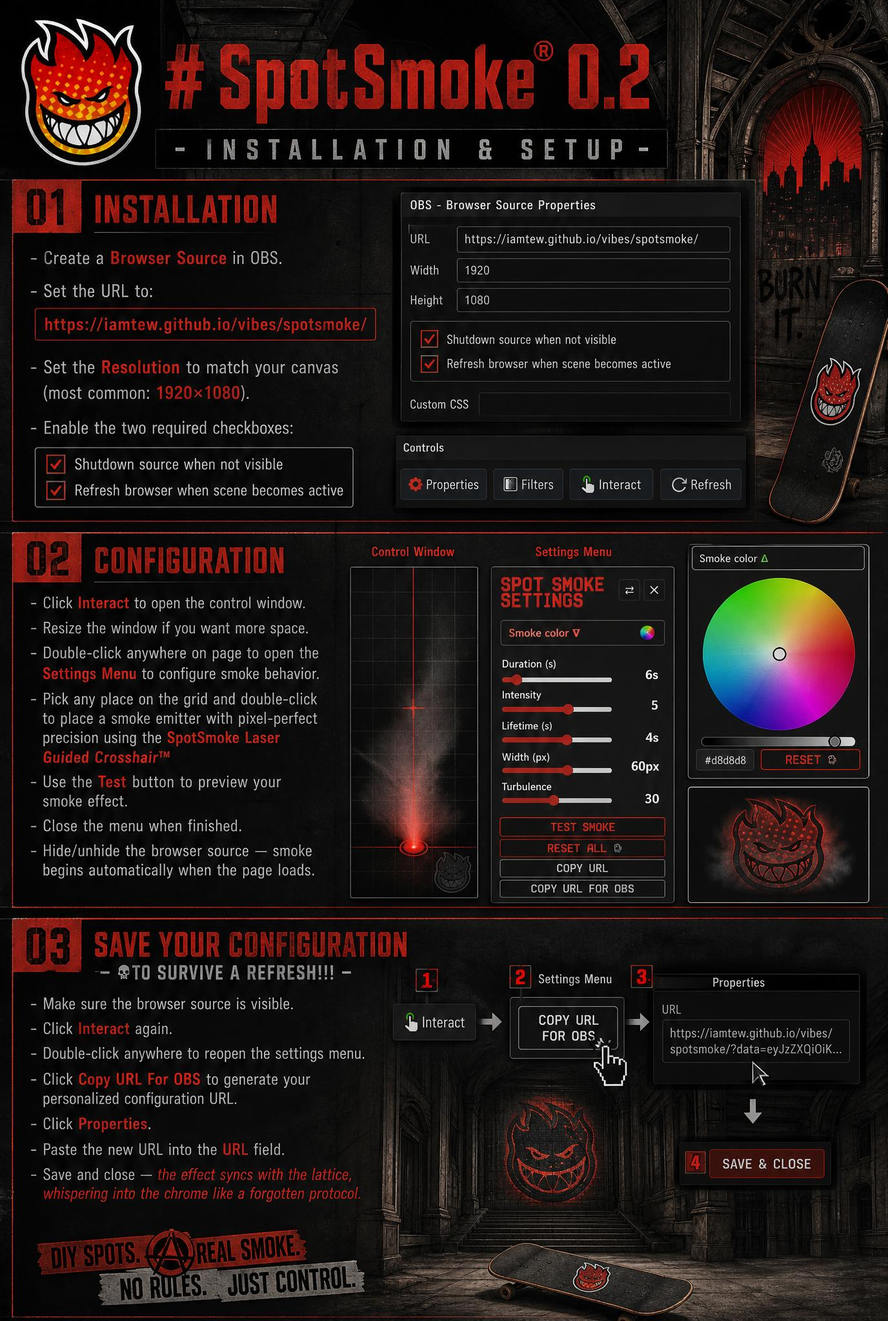
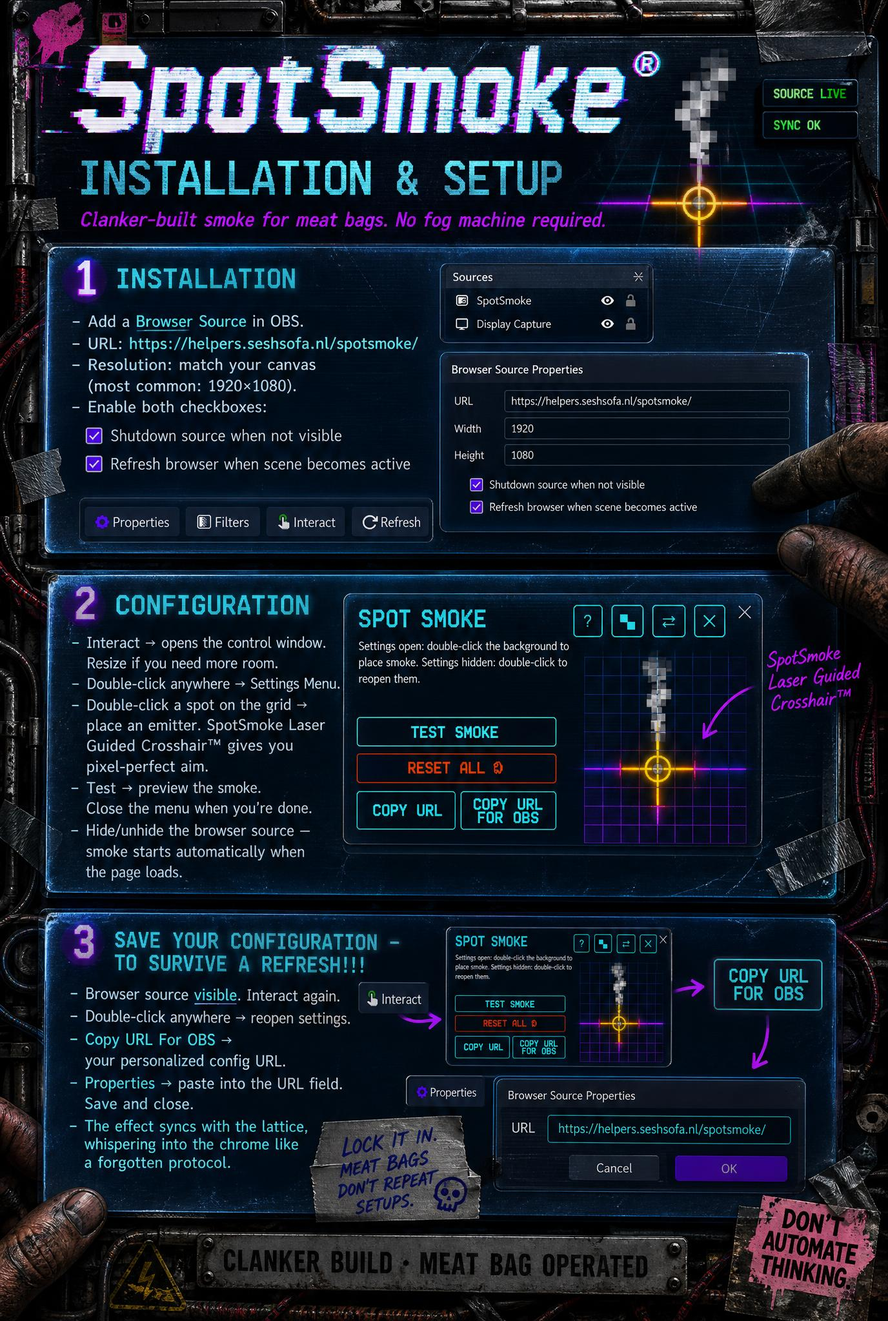
Update Spotsmoke HOWTO Poster + Include prompt

diff --git a/spotsmoke/poster.md b/spotsmoke/poster.md
@@ -1,0 +1,74 @@
+# SpotSmoke® Poster — Image Generator Super-Prompt
+
+Paste the master prompt + the poster script below. Attach OBS / Spot Smoke screenshots as style refs. Typeset script copy verbatim; no markdown in the image.
+
+## Master prompt
+
+```
+Vertical instructional poster (2:3 or 9:16, print-ready) for "SpotSmoke® — Installation & Setup" — OBS Browser Source smoke emitter, clanker-built for meat bags.
+
+REFERENCE IMAGES: Attached screenshots show real OBS UI and Spot Smoke settings. Use them for layout cues, controls, and recognizability — NOT as pasted/cropped photos. Restyle, fragment, and fuse them into the poster so UI, glass, glitch, and grit read as one artwork (screens inside frosted panels, under glass, taped to rack, chromatic-warped). No raw desktop screenshots floating on blank space.
+
+CONCEPT: Broadcast rack × industrial plant × hesh-punk DIY. LCD Glass cyber + chromatic glitch + xerox/zine grit. Scrap-built, thrash-ready, anti-corporate. Attitude from skate culture — NO decks, wheels, halfpipes, or skate parks.
+
+LCD GLASS SURFACE: Frosted navy-cyan glass panels, 135° gradient #0e223e→#305c90 (translucent). Text #e0fefe / #eee. Border rgba(170,220,255,0.22). Soft blur + xerox/halftone grain on edges. Background void #0a0a14.
+
+GLITCH: Magenta/cyan RGB split on headlines (±2px, #ff00ff / #00ffff) + purple glow #d14cff. Scan tears, datamosh, VHS wobble on decor only — body copy stays legible. Mix with misregistered ink, toner smear, torn collage.
+
+DETAILS: Bolted steel bezels, gaffer-taped cables, status LEDs ("SOURCE LIVE", "SYNC OK"), scratched gunmetal, sparse hazard stripes, peeling abstract stickers, duct-tape patches, stencil spray, warehouse concrete. Plate: "CLANKER BUILD · MEAT BAG OPERATED".
+
+MOTIFS: Amber laser crosshair #ffcc00 with cyan/magenta halo (SpotSmoke Laser Guided Crosshair™). Grey pixel smoke #d8d8d8 from a grid point. Faint cyan/magenta checkerboard. Browser/OBS chrome echoes from refs, stylized. Optional calloused operator hands.
+
+TYPE/LAYOUT: VCR/LCD monospace title (zine-masthead punch). Clean sans for bullets. Sections: Installation · Configuration · Save Your Configuration. Cyan torn dividers. Tagline italic under title. Sparse hand-scrawl arrows. ~60% text / ~40% atmosphere; slight collage asymmetry OK.
+
+PALETTE: Cyan #00ffff, magenta #ff00ff/#d14cff, spot #ff4400, amber #ffcc00/#ffb000, concrete/gaffer/rust grit — never overpower LCD cyan/magenta.
+
+MOOD: Cool ice-blue key left, magenta rim right, cyan underglow. 2 AM warehouse session + pre-show rack check. Competent, unhinged, reliable.
+
+NEGATIVES: verbatim screenshot paste, floating UI crops, skateboard, deck, wheels, halfpipe, skate park, QR/barcode, unreadable text, cyberpunk city, fog machine photo, cartoon mascot, Apple minimalism, cute robots, steampunk, anarchy logos, corporate stock rebellion.
+
+OUTPUT: Sharp graphic poster, xerox-industrial grit. One cohesive design. Script text verbatim & legible. Pick 1920×1080 or 1200×1800 and commit.
+```
+
+---
+
+Poster script below this line! Do not touch without explicit approval from Meat Bag.
+Script below should be rendered in image, no Markup should be displayed.
+Markup is for showing where emphasis etc. should be added.
+
+----
+
+SpotSmoke® — Installation & Setup
+
+*Clanker-built smoke for meat bags. No fog machine required.*
+
+----
+
+## Installation
+
+- Add a **Browser Source** in OBS.
+- URL: **https://helpers.seshsofa.nl/spotsmoke/**
+- **Resolution:** match your canvas (most common: **1920×1080**).
+- Enable both checkboxes:
+  - *Shutdown source when not visible*
+  - *Refresh browser when scene becomes active*
+
+---
+
+## Configuration
+
+- **Interact** → opens the control window. Resize if you need more room.
+- **Double-click** anywhere → **Settings Menu**.
+- **Double-click** a spot on the grid → place an emitter. *SpotSmoke Laser Guided Crosshair™* gives you pixel-perfect aim.
+- **Test** → preview the smoke. Close the menu when you're done.
+- Hide/unhide the browser source — smoke starts automatically when the page loads.
+
+---
+
+## Save Your Configuration — To Survive a Refresh!!!
+
+- Browser source **visible**. **Interact** again.
+- **Double-click** anywhere → reopen settings.
+- **Copy URL For OBS** → your personalized config URL.
+- **Properties** → paste into the **URL field**. Save and close.
+- **The effect syncs with the lattice, whispering into the *chrome* like a forgotten protocol.**
